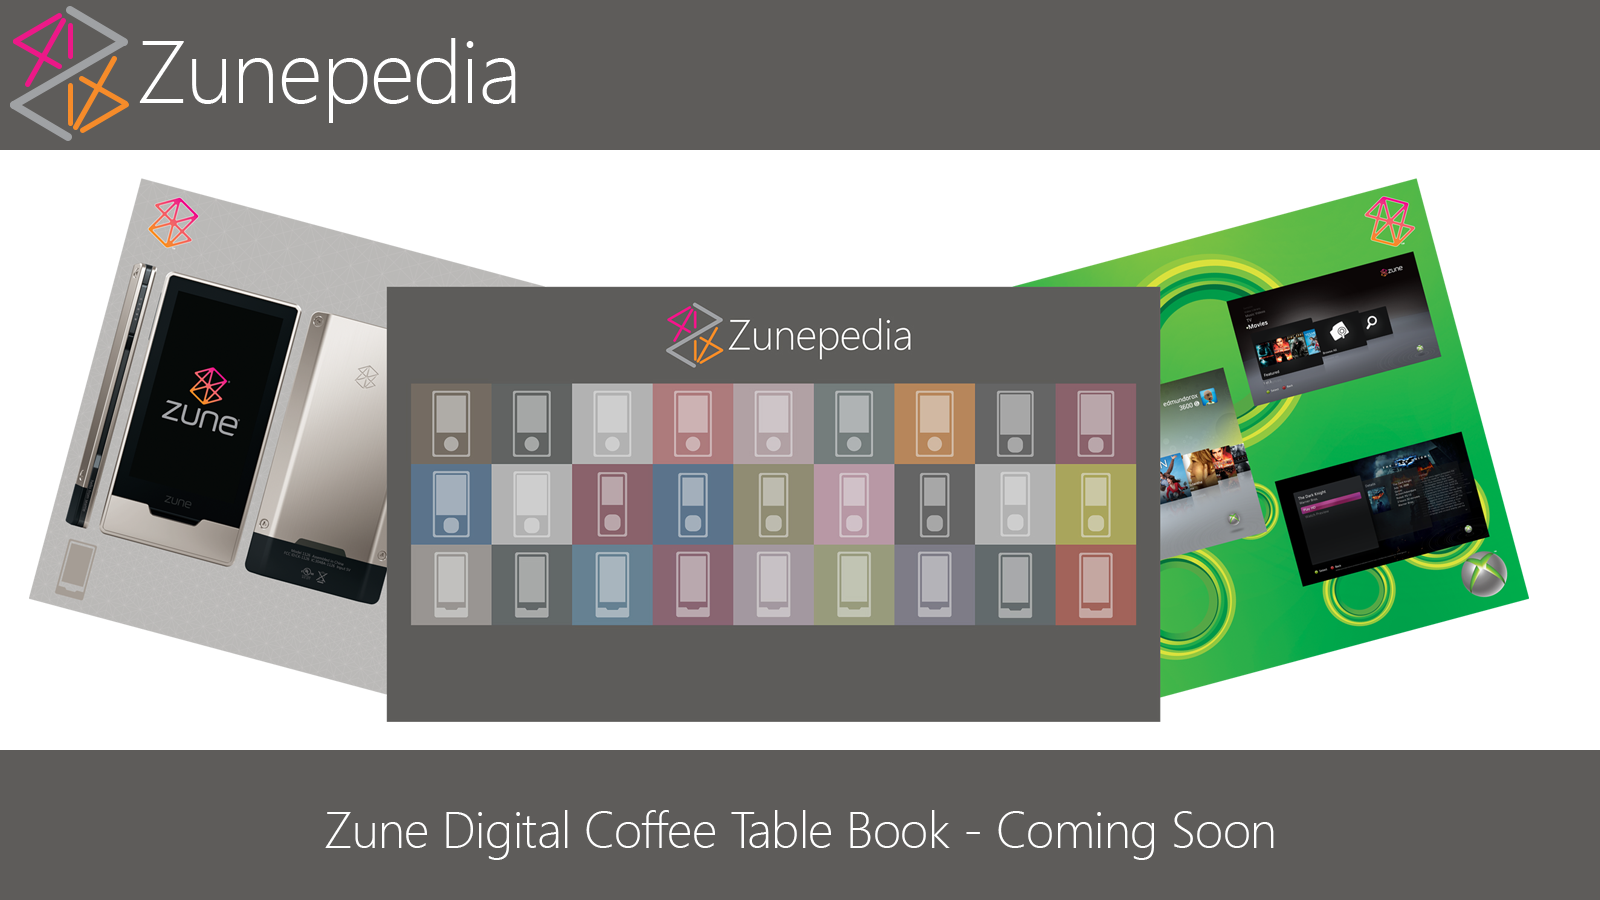
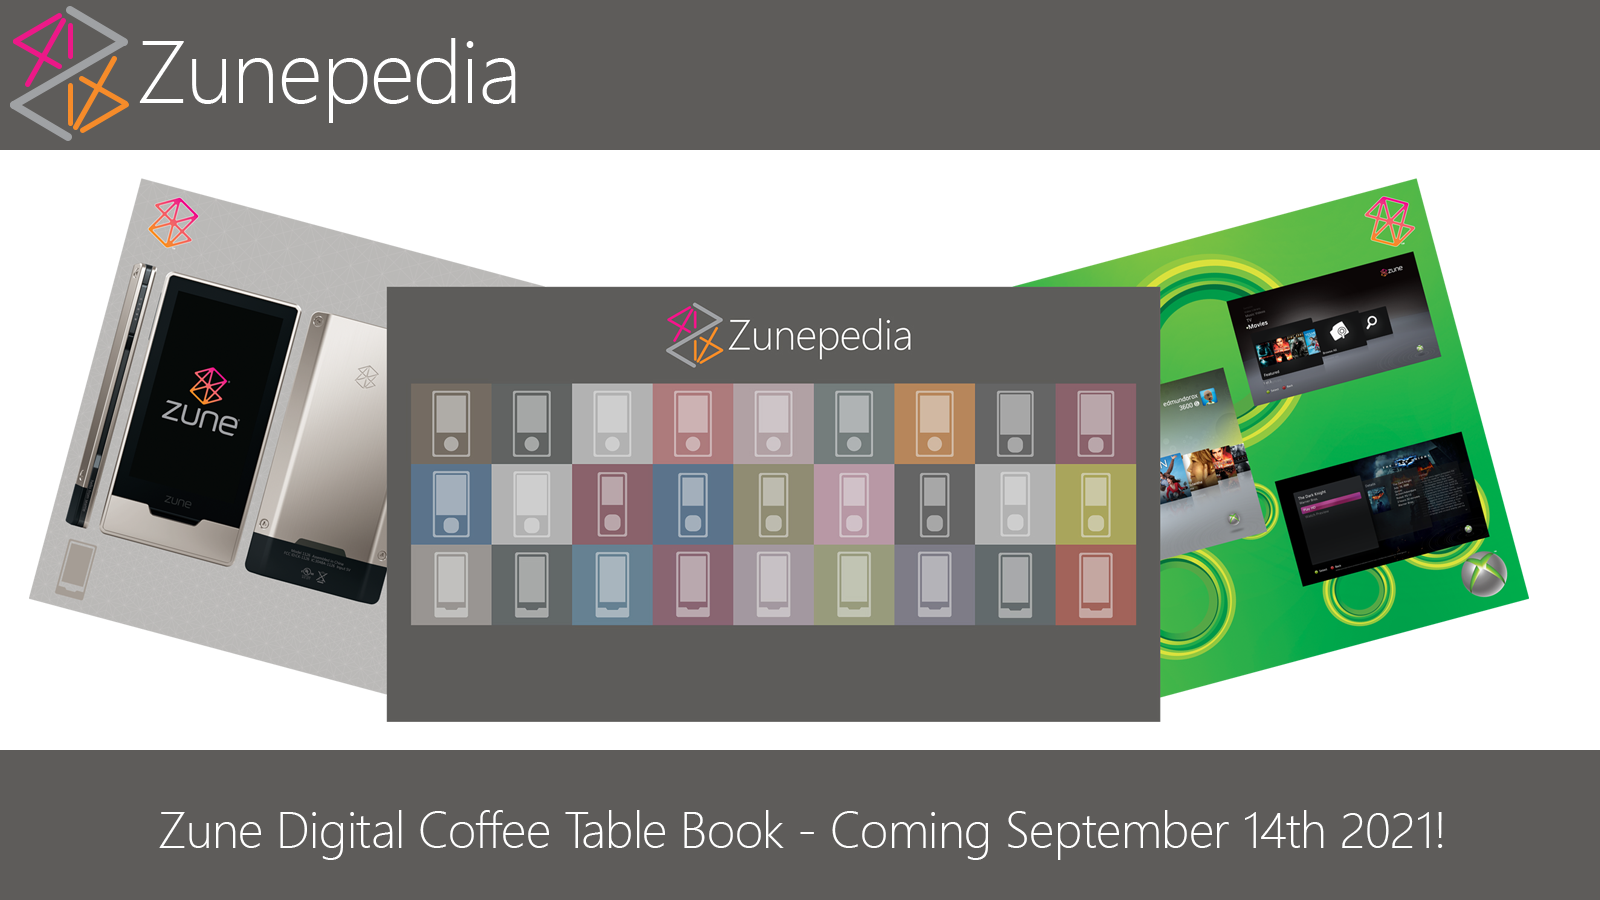
Coming Soon with Release Date

Changed region(s): [[0.0938, 0.9022, 0.9062, 0.9644]]

diff --git a/index.html b/index.html
@@ -8,7 +8,7 @@
     </head>
     <body>
         <div class="text-center">
-            <img src="images/coming-soon.png" class="img-fluid" alt="Coming Soon...">  
+            <img src="images/coming-soon.png" class="img-fluid" alt="Zunepedia - Zune Digital Coffee Table Book - Coming September 14th 2021!">  
         </div>
     </body>
 </html>
